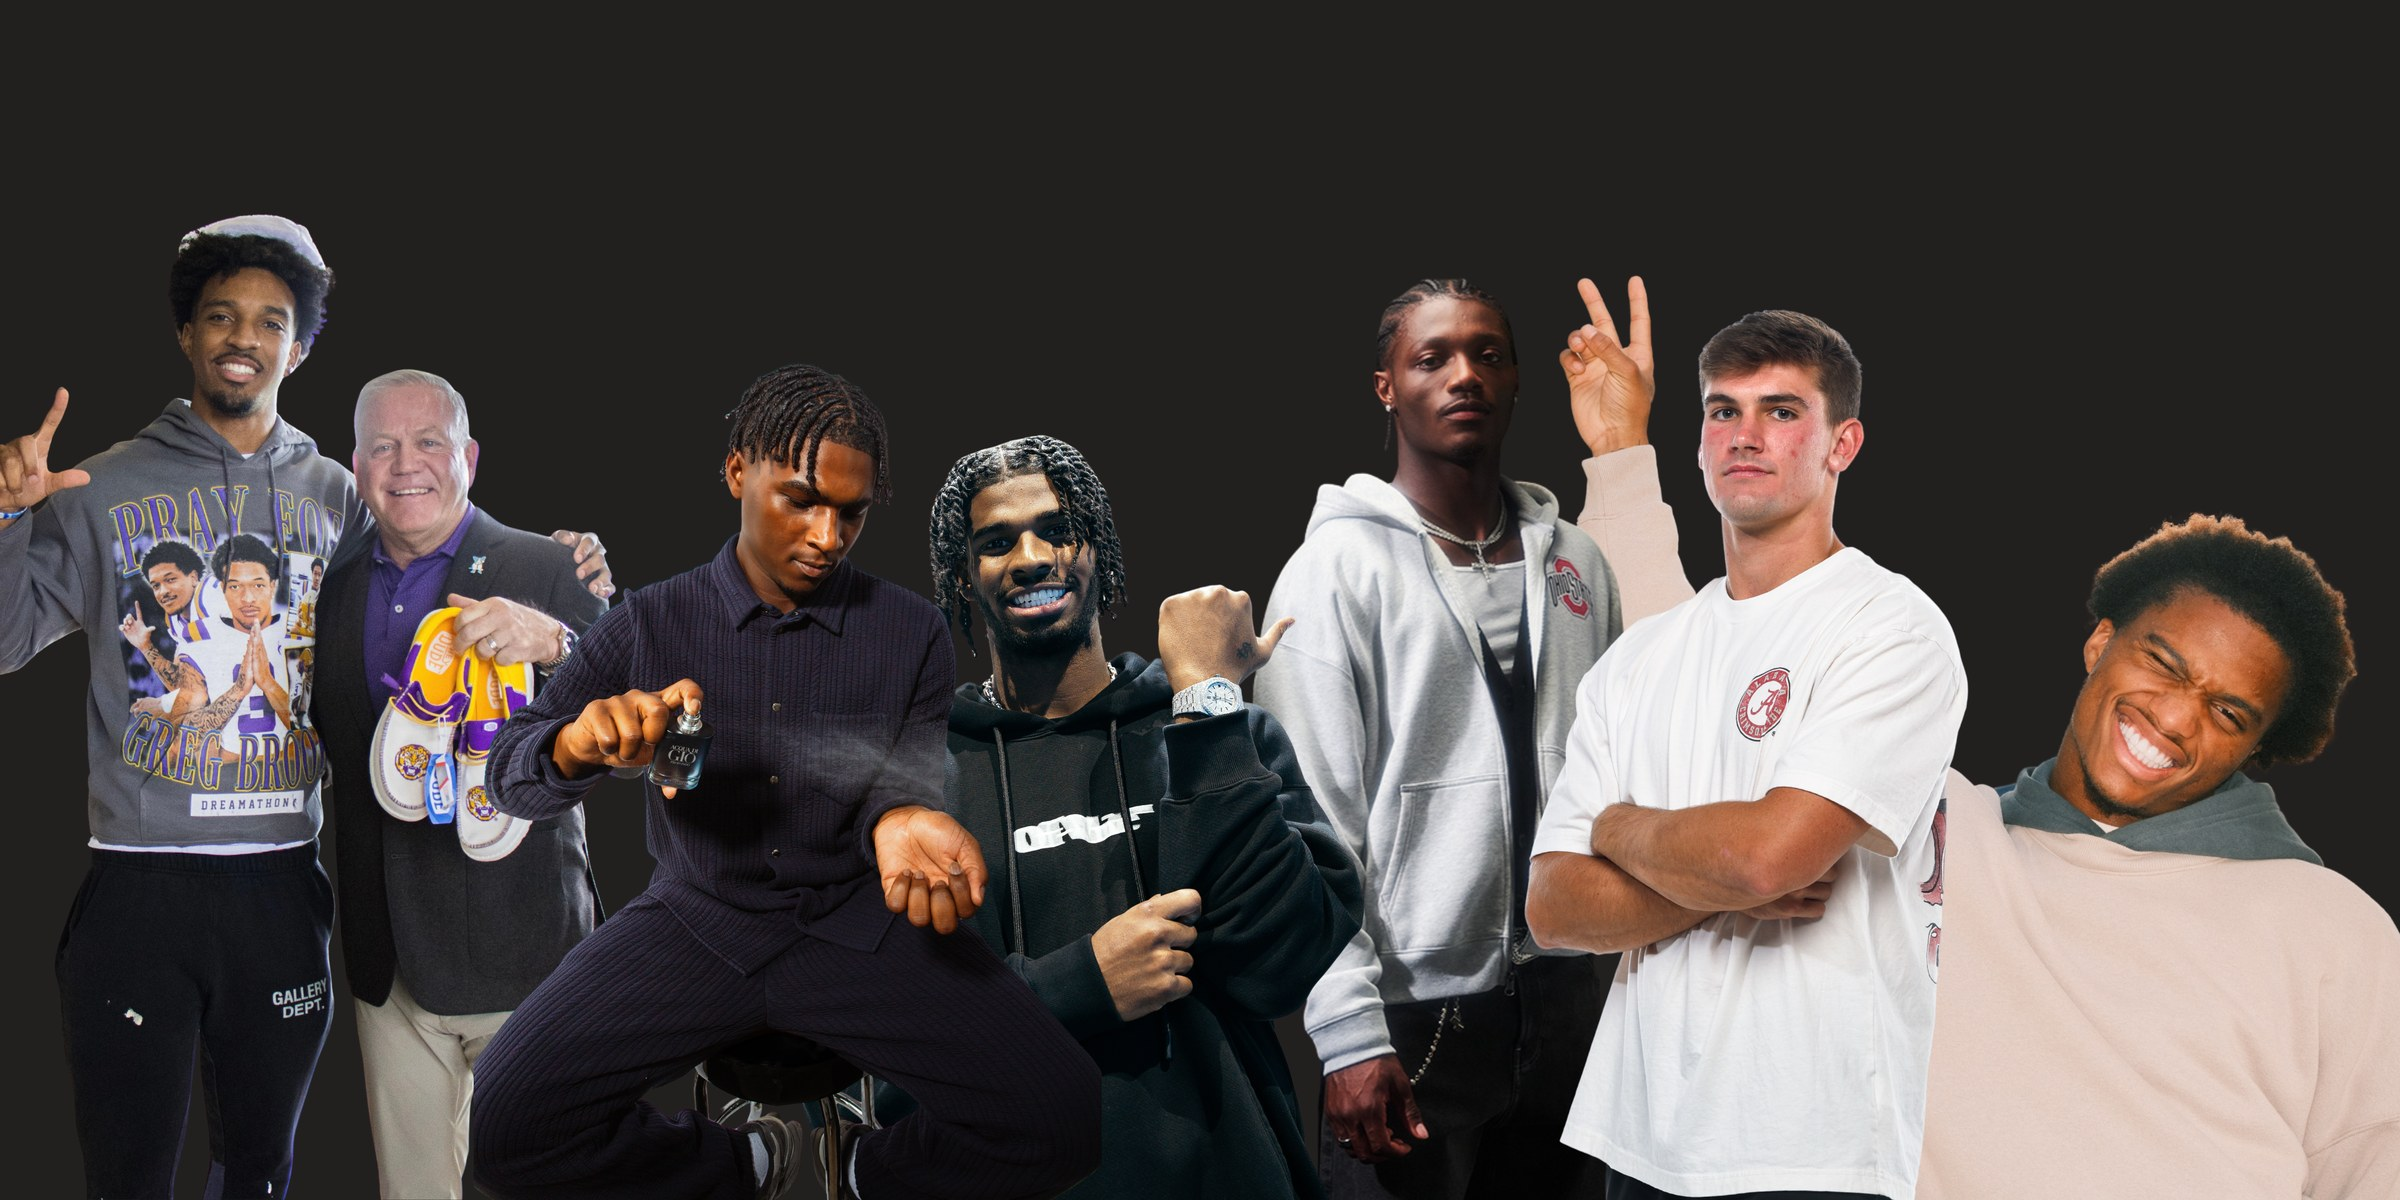
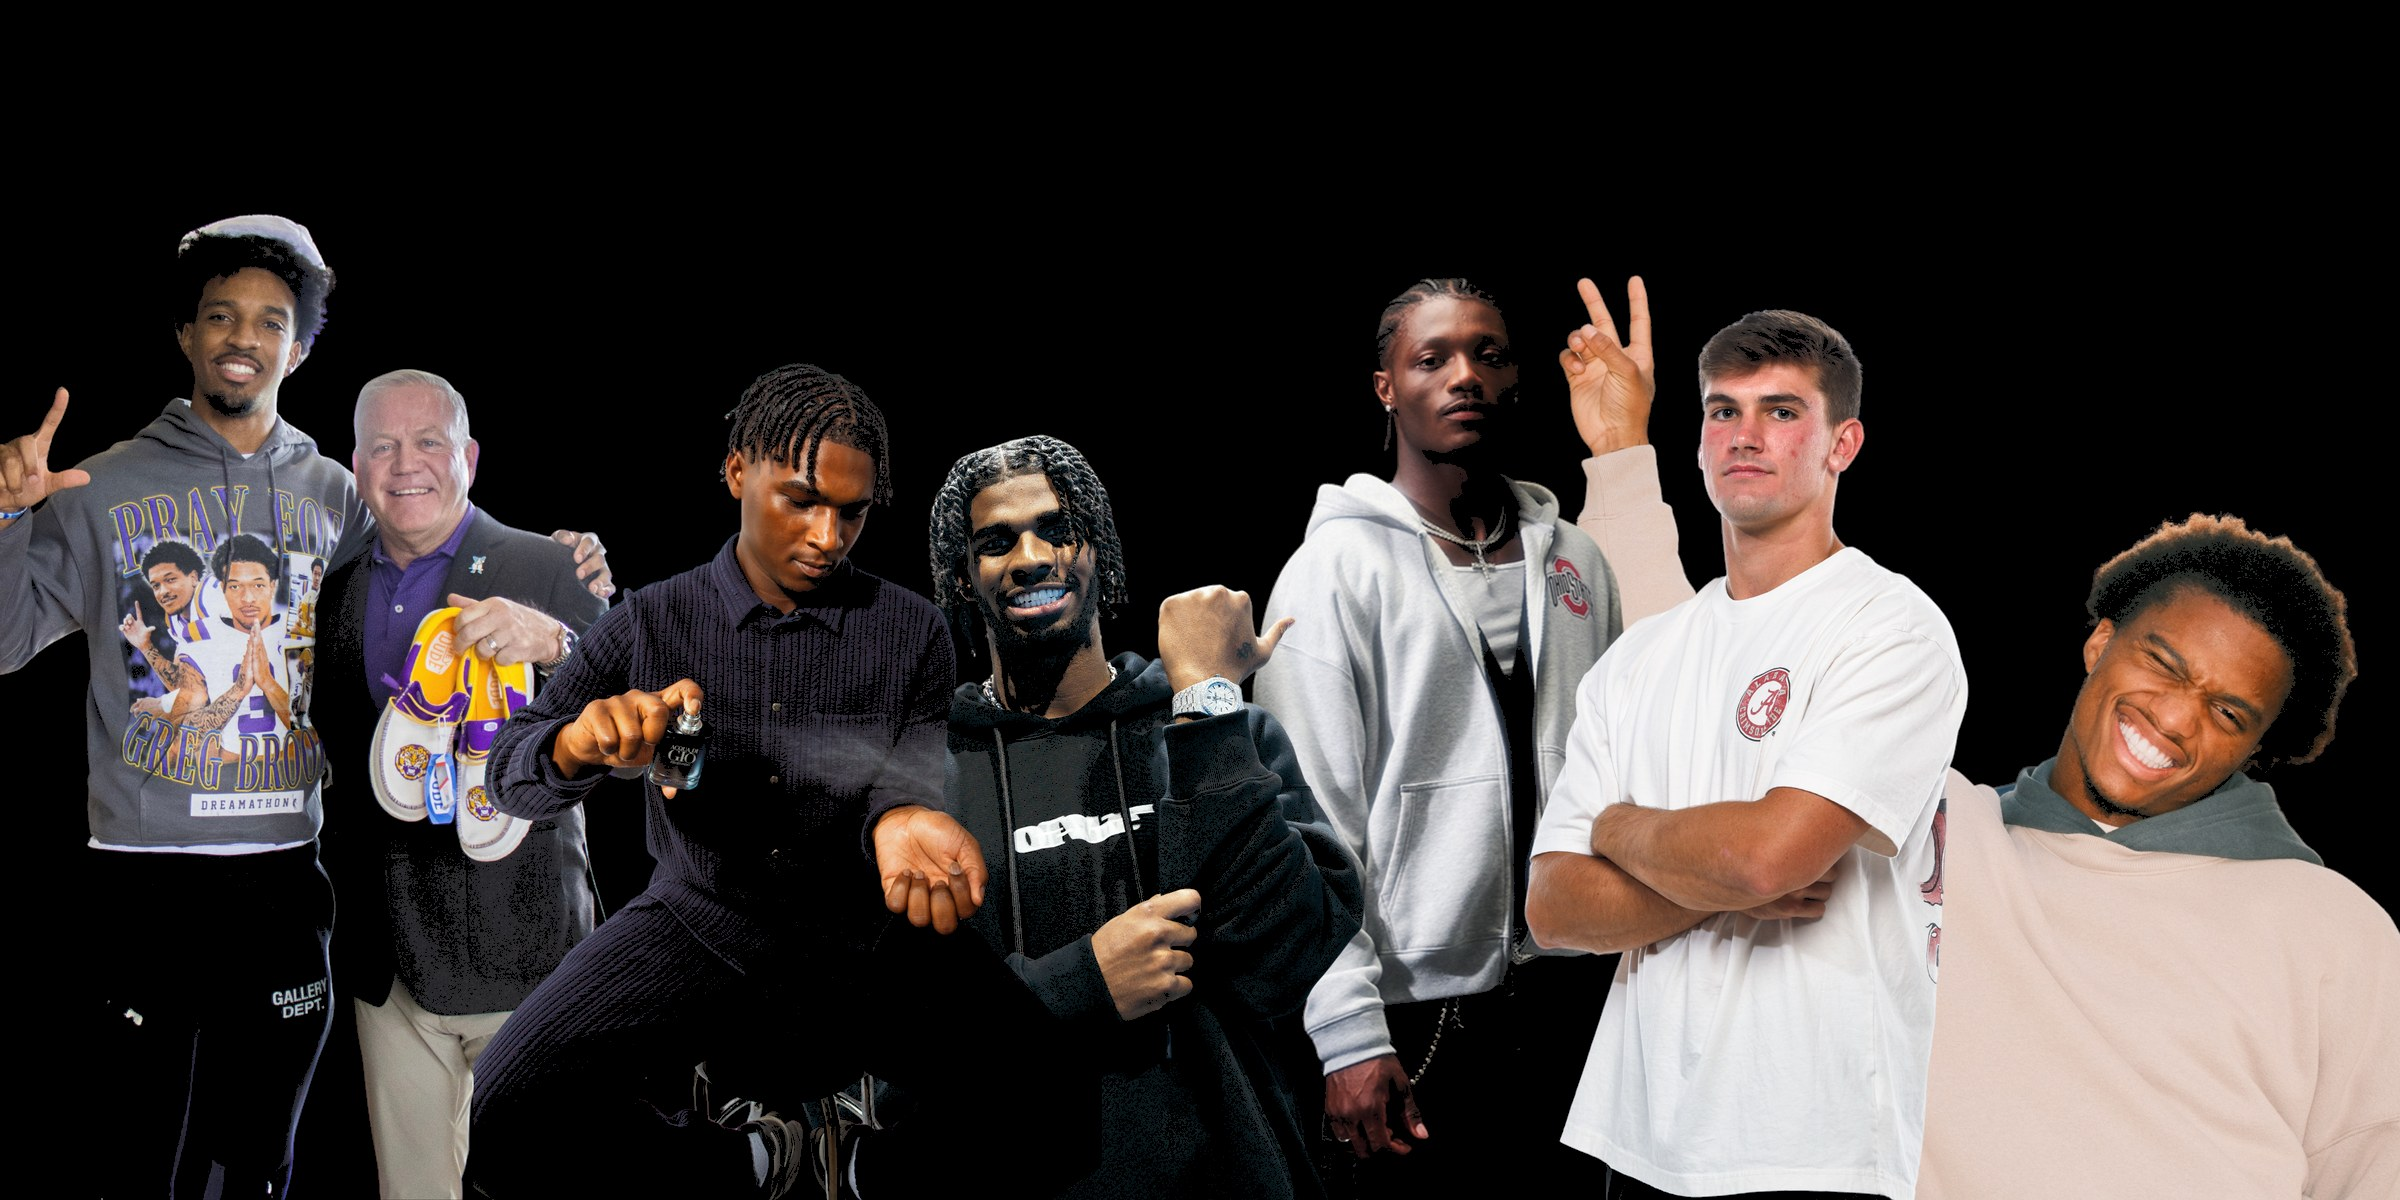
feat(pitch): clamp hero collage bg to pure black
Re-processed Football top class to push dark+grayscale pixels (59% of
image) to #000000. Athletes themselves untouched (skin/clothing has
color saturation, didn't match background mask). Also tightened
section CSS background to #000 to match.

diff --git a/src/styles/pitch.css b/src/styles/pitch.css
@@ -750,10 +750,12 @@
       mobile = 2-col grid.
    ============================================================ */
 
-/* Hero-image mode: full-width image, no internal padding/wrapper. */
+/* Hero-image mode: full-width image, no internal padding/wrapper.
+   Background is pure black so it matches the cleaned hero-collage.jpg
+   (whose gradient-y dark gray was clamped to #000 during processing). */
 .pitch-page .pitch-collage--hero {
   padding: 0;
-  background: #0a0a0e;
+  background: #000000;
   border-bottom: 1px solid var(--glass-border);
 }
 .pitch-page .pitch-collage--hero .pitch-collage__hero-img {
